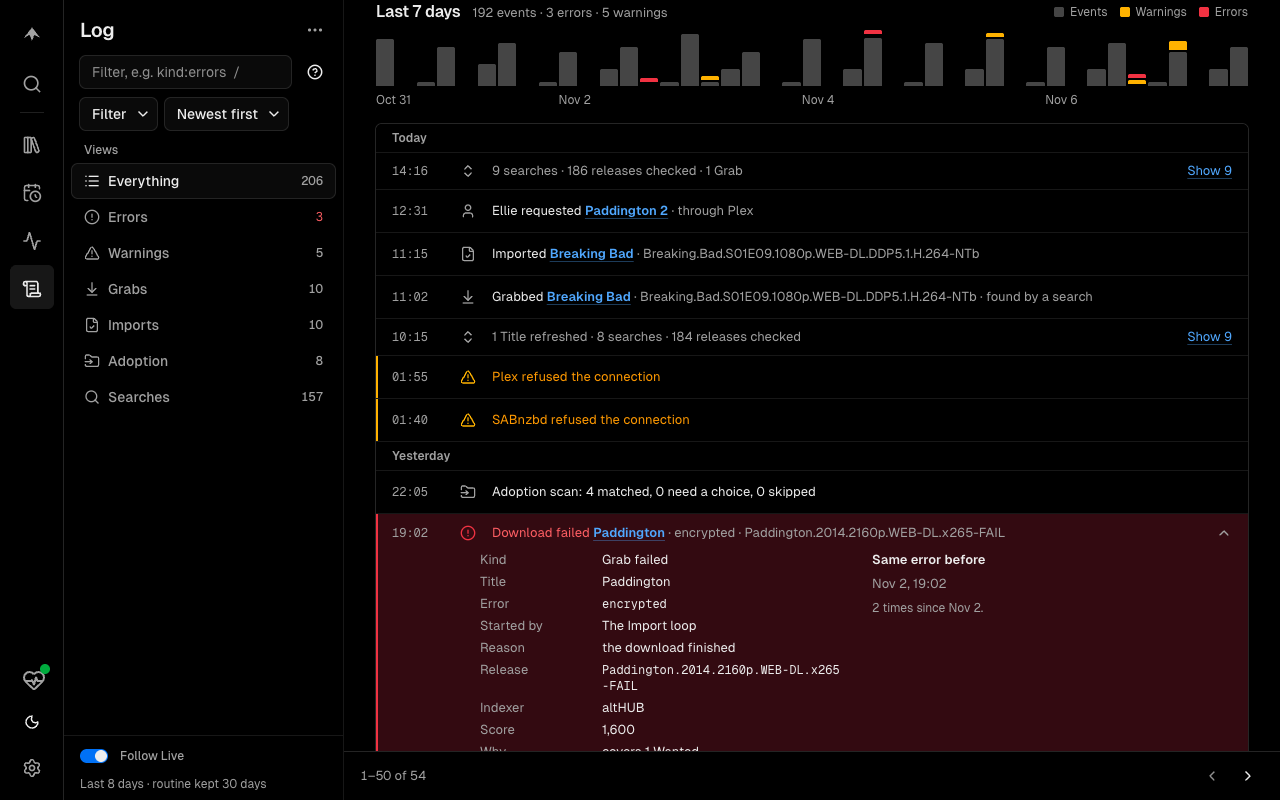
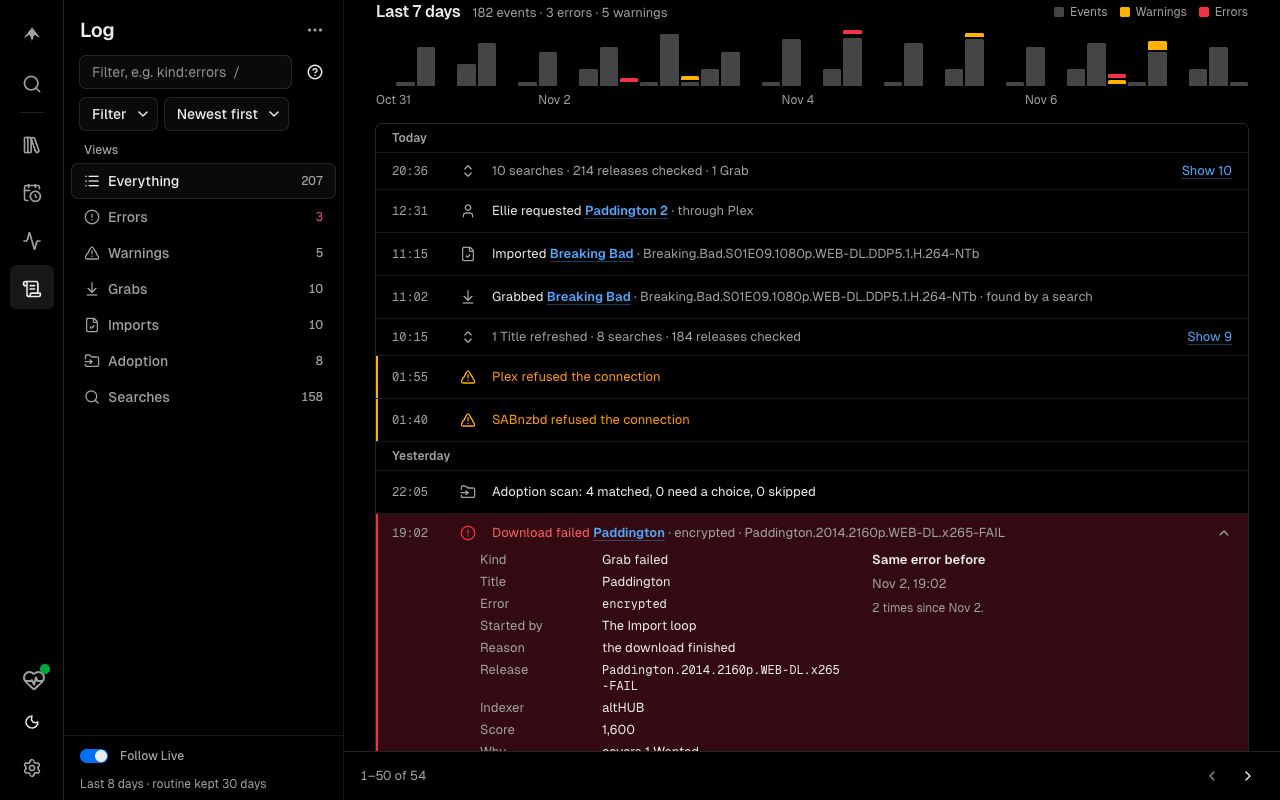
chore(release): 0.15.1

Changed region(s): [[0.2812, 0.0312, 1.0, 0.125], [0.375, 0.1875, 0.5938, 0.2188], [0.9062, 0.1875, 0.9688, 0.2188]]

diff --git a/CHANGELOG.md b/CHANGELOG.md
@@ -1,5 +1,13 @@
 # Changelog
 
+## [0.15.1](https://github.com/hyprsh/kestrel/compare/v0.15.0...v0.15.1) (2026-11-07)
+
+> A failed download now says why: Kestrel keeps SABnzbd's own message and shows it in History, the Log and the Blocklist, instead of only "the download failed".
+
+### Bug Fixes
+
+* **acquire:** a failed Grab keeps what SABnzbd said about it, and shows that in History, the Log and the Blocklist. Its opened row says Download started until the download finishes, and gains a Release blocklisted step. A Grab that failed before this upgrade keeps the old wording, because its message is gone ([#513](https://github.com/hyprsh/kestrel/pull/513))
+
 ## [0.15.0](https://github.com/hyprsh/kestrel/compare/v0.14.0...v0.15.0) (2026-11-07)
 
 > The first run now works as documented: a new install connects to SABnzbd by name, and if SABnzbd refuses that name Kestrel says so instead of blaming your API key. The Log records what every TRaSH update changed and why, every Release, file and Grab shows its facts the same way, and a new [Customizing](https://hyprsh.github.io/kestrel/guide/customizing) guide lists what you can change and where.
